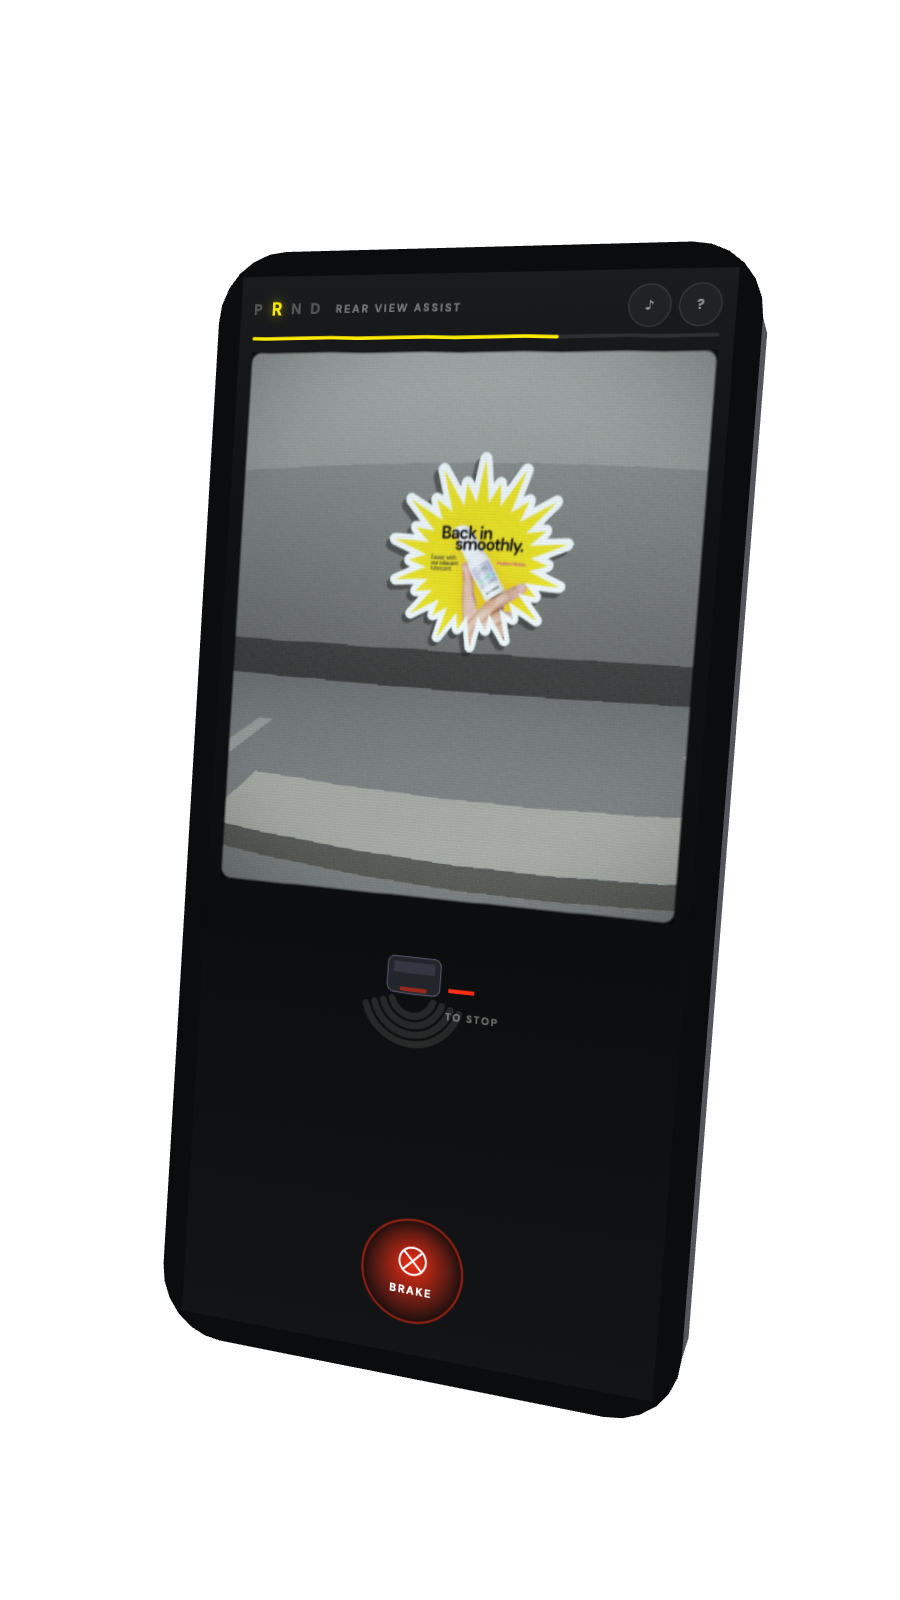
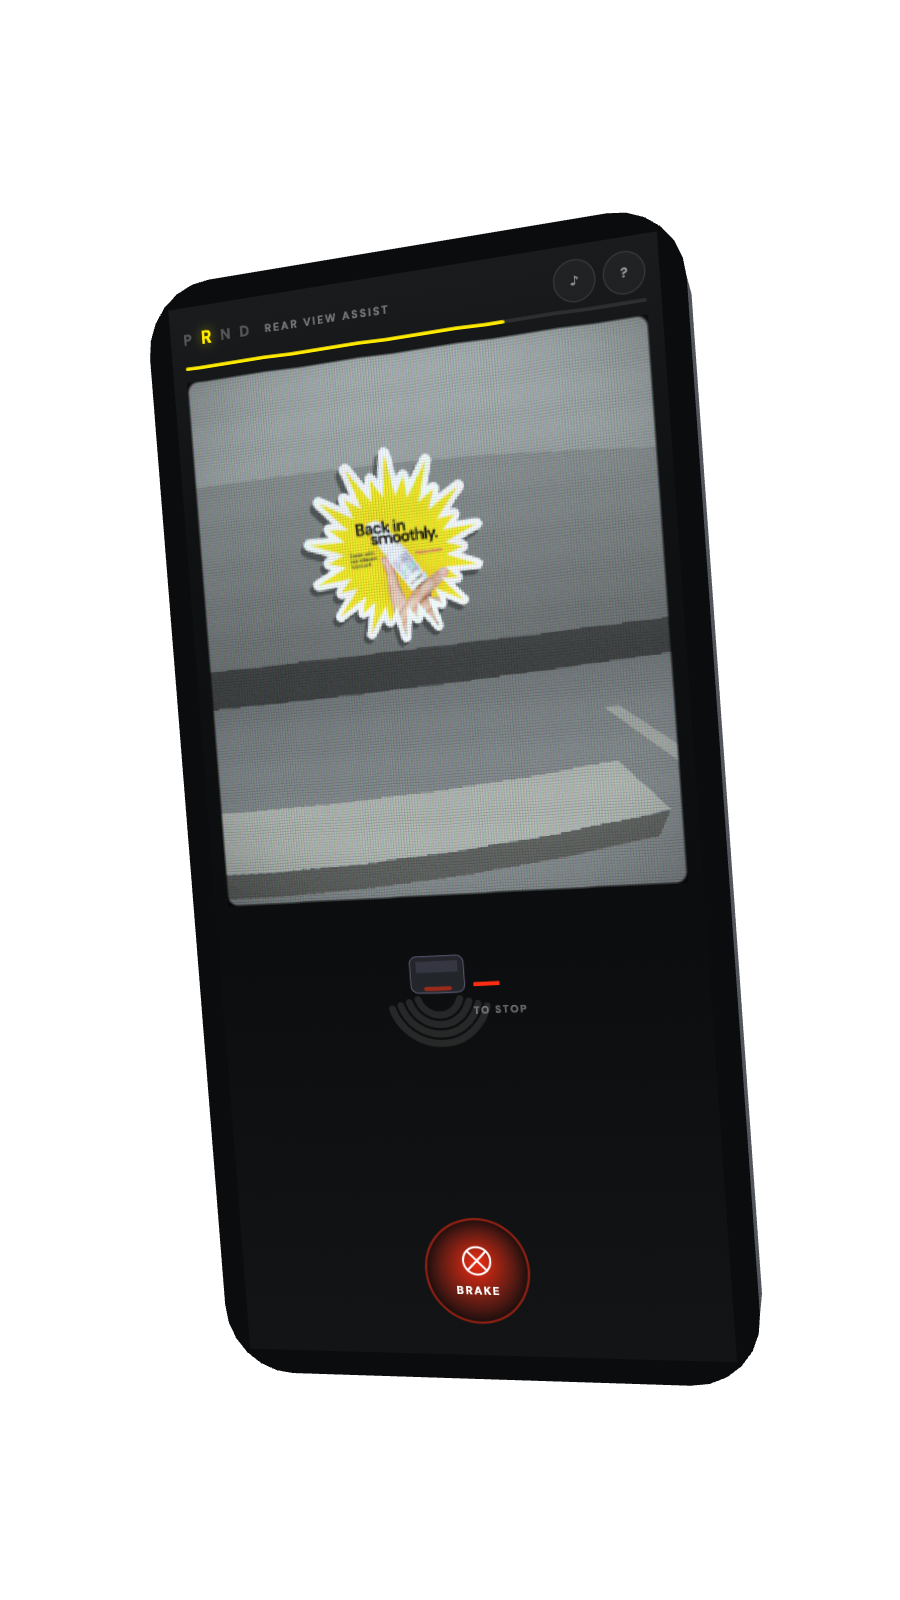
Make the feed obviously a screen
The mockups are photographs of a dashboard LCD, and what sells them is the panel
itself. The picture is now snapped to the display's own 336-pixel grid before
anything else touches it, so it is genuinely built out of pixels rather than
resampled smooth, and the matrix is drawn over the top: a dark lattice between
pixels at panel frequency, the red-green-blue stripe at device frequency. They
have to stay at separate frequencies — run both off the panel grid and they beat
into a wire mesh, which was the first attempt. The grille eases off during the
payoff so the poster still reads as artwork.

Changed region(s): [[0.1556, 0.125, 0.8711, 0.9062], [0.4044, 0.5938, 0.56, 0.6562], [0.28, 0.8438, 0.4044, 0.875]]

diff --git a/dist/embed.html b/dist/embed.html
@@ -2362,6 +2362,8 @@ window.PM_MODELS = {
     uniform float uAspect;
     uniform float uK1, uK2, uFit;
     uniform float uChroma, uScan, uGrain, uVig, uBloom, uGain, uSat;
+    uniform vec2  uPanel;     // the display's own pixel grid
+    uniform float uGrille;    // how hard the RGB matrix shows through
     uniform float uLines;
     uniform float uReduce;
     uniform vec4  uFlash;     // rgb + amount
@@ -2388,7 +2390,14 @@ window.PM_MODELS = {
       }
 
       vec2 luv = (vUv - uRMin) / (uRMax - uRMin);
-      vec2 p = (luv - 0.5) * vec2(uAspect, 1.0);
+
+      /* This is a cheap LCD in a dashboard, not a framebuffer. Snap the sample
+         to the panel's own pixel centres so the picture is genuinely built out
+         of pixels, then draw the matrix over the top. */
+      vec2 cell = luv * uPanel;
+      vec2 snapped = (floor(cell) + 0.5) / uPanel;
+
+      vec2 p = (snapped - 0.5) * vec2(uAspect, 1.0);
       float r2 = dot(p, p);
 
       // --- lens + lateral chromatic aberration --------------------------
@@ -2425,16 +2434,27 @@ window.PM_MODELS = {
       col *= vec3(0.96, 1.0, 1.02);
       col = col * uGain + 0.028;
 
-      // --- the LCD ------------------------------------------------------
-      float scan = sin(luv.y * uLines * 3.14159265);
-      col *= mix(1.0, 0.86 + 0.14 * scan * scan, uScan);
-      // RGB stripe of the panel, seen through a phone camera
-      float col3 = mod(gl_FragCoord.x, 3.0);
-      vec3 stripe = vec3(
-        col3 < 1.0 ? 1.0 : 0.94,
-        (col3 >= 1.0 && col3 < 2.0) ? 1.0 : 0.94,
-        col3 >= 2.0 ? 1.0 : 0.94);
-      col *= mix(vec3(1.0), stripe, uScan * 0.75);
+      /* --- the panel itself ---------------------------------------------
+         Three things make a screen look like a screen when you photograph one:
+         the gaps between pixels, the red-green-blue stripe inside each one,
+         and the fact that both are slightly out of step with the camera's own
+         grid, which is where the moire comes from. */
+      /* Two different frequencies, and they have to stay separate or they
+         beat against each other into a mesh: the lattice belongs to the panel,
+         the red-green-blue stripe to the camera looking at it. */
+      vec2 f = fract(cell);
+      float gx = smoothstep(0.0, 0.30, f.x) * smoothstep(1.0, 0.70, f.x);
+      float gy = smoothstep(0.0, 0.26, f.y) * smoothstep(1.0, 0.74, f.y);
+      float door = mix(1.0, 0.52 + 0.48 * (0.35 + 0.65 * gx) * gy, uGrille);
+      float sub = mod(gl_FragCoord.x, 3.0);
+      vec3 stripe = vec3(sub < 1.0 ? 1.0 : 0.72,
+                         (sub >= 1.0 && sub < 2.0) ? 1.0 : 0.72,
+                         sub >= 2.0 ? 1.0 : 0.72);
+      vec3 matrix = mix(vec3(1.0), stripe, uGrille) * door;
+      float scan = sin(cell.y * 3.14159265);
+      matrix *= mix(1.0, 0.92 + 0.08 * scan * scan, uScan);
+      col *= matrix;
+      col *= 1.0 + uGrille * 0.42;     // give back what the lattice took
       // slow rolling refresh bar
       col *= 1.0 + (1.0 - uReduce) * 0.016 * sin(luv.y * 5.0 - uTime * 0.9);
 
@@ -2479,6 +2499,9 @@ window.PM_MODELS = {
     gl.uniform1f(U.uGain, prm.gain === undefined ? 1 : prm.gain);
     gl.uniform1f(U.uSat, prm.sat === undefined ? 0.78 : prm.sat);
     gl.uniform1f(U.uLines, prm.lines || 300);
+    const pw = prm.panel || 320;
+    gl.uniform2f(U.uPanel, pw, Math.round(pw / aspect));
+    gl.uniform1f(U.uGrille, prm.grille === undefined ? 0.55 : prm.grille);
     gl.uniform1f(U.uReduce, prm.reduce ? 1 : 0);
     const f = prm.flash || [0, 0, 0, 0];
     gl.uniform4f(U.uFlash, f[0], f[1], f[2], f[3]);
@@ -2637,6 +2660,8 @@ window.PM_MODELS = {
     bloom: 0.22,
     gain: 1.03,
     sat: 0.78,
+    panel: 336,      // the display's horizontal pixel count
+    grille: 0.42,
     lines: 240,
   };
 
@@ -4246,6 +4271,8 @@ window.PM_MODELS = {
         bloom: L.bloom * (1 - ease * 0.85),
         gain: lerp(L.gain, 1.0, ease),
         sat: lerp(L.sat, 0.99, ease),
+        panel: L.panel,
+        grille: L.grille * (1 - ease * 0.45),
         lines: Math.round(this.cam.h / 3),
         reduce: this.reduce,
         flash: this.flash,
@@ -4678,6 +4705,8 @@ window.PM_MODELS = {
         bloom: LK.bloom * (1 - ease * 0.85),
         gain: lerp(LK.gain, 1, ease),
         sat: lerp(LK.sat, 0.99, ease),
+        panel: LK.panel,
+        grille: LK.grille * (1 - ease * 0.45),
         lines: Math.round(this.feedCv.height / 3),
         reduce: false,
         flash: this.flash,

diff --git a/index.html b/index.html
@@ -2369,6 +2369,8 @@ window.PM_MODELS = {
     uniform float uAspect;
     uniform float uK1, uK2, uFit;
     uniform float uChroma, uScan, uGrain, uVig, uBloom, uGain, uSat;
+    uniform vec2  uPanel;     // the display's own pixel grid
+    uniform float uGrille;    // how hard the RGB matrix shows through
     uniform float uLines;
     uniform float uReduce;
     uniform vec4  uFlash;     // rgb + amount
@@ -2395,7 +2397,14 @@ window.PM_MODELS = {
       }
 
       vec2 luv = (vUv - uRMin) / (uRMax - uRMin);
-      vec2 p = (luv - 0.5) * vec2(uAspect, 1.0);
+
+      /* This is a cheap LCD in a dashboard, not a framebuffer. Snap the sample
+         to the panel's own pixel centres so the picture is genuinely built out
+         of pixels, then draw the matrix over the top. */
+      vec2 cell = luv * uPanel;
+      vec2 snapped = (floor(cell) + 0.5) / uPanel;
+
+      vec2 p = (snapped - 0.5) * vec2(uAspect, 1.0);
       float r2 = dot(p, p);
 
       // --- lens + lateral chromatic aberration --------------------------
@@ -2432,16 +2441,27 @@ window.PM_MODELS = {
       col *= vec3(0.96, 1.0, 1.02);
       col = col * uGain + 0.028;
 
-      // --- the LCD ------------------------------------------------------
-      float scan = sin(luv.y * uLines * 3.14159265);
-      col *= mix(1.0, 0.86 + 0.14 * scan * scan, uScan);
-      // RGB stripe of the panel, seen through a phone camera
-      float col3 = mod(gl_FragCoord.x, 3.0);
-      vec3 stripe = vec3(
-        col3 < 1.0 ? 1.0 : 0.94,
-        (col3 >= 1.0 && col3 < 2.0) ? 1.0 : 0.94,
-        col3 >= 2.0 ? 1.0 : 0.94);
-      col *= mix(vec3(1.0), stripe, uScan * 0.75);
+      /* --- the panel itself ---------------------------------------------
+         Three things make a screen look like a screen when you photograph one:
+         the gaps between pixels, the red-green-blue stripe inside each one,
+         and the fact that both are slightly out of step with the camera's own
+         grid, which is where the moire comes from. */
+      /* Two different frequencies, and they have to stay separate or they
+         beat against each other into a mesh: the lattice belongs to the panel,
+         the red-green-blue stripe to the camera looking at it. */
+      vec2 f = fract(cell);
+      float gx = smoothstep(0.0, 0.30, f.x) * smoothstep(1.0, 0.70, f.x);
+      float gy = smoothstep(0.0, 0.26, f.y) * smoothstep(1.0, 0.74, f.y);
+      float door = mix(1.0, 0.52 + 0.48 * (0.35 + 0.65 * gx) * gy, uGrille);
+      float sub = mod(gl_FragCoord.x, 3.0);
+      vec3 stripe = vec3(sub < 1.0 ? 1.0 : 0.72,
+                         (sub >= 1.0 && sub < 2.0) ? 1.0 : 0.72,
+                         sub >= 2.0 ? 1.0 : 0.72);
+      vec3 matrix = mix(vec3(1.0), stripe, uGrille) * door;
+      float scan = sin(cell.y * 3.14159265);
+      matrix *= mix(1.0, 0.92 + 0.08 * scan * scan, uScan);
+      col *= matrix;
+      col *= 1.0 + uGrille * 0.42;     // give back what the lattice took
       // slow rolling refresh bar
       col *= 1.0 + (1.0 - uReduce) * 0.016 * sin(luv.y * 5.0 - uTime * 0.9);
 
@@ -2486,6 +2506,9 @@ window.PM_MODELS = {
     gl.uniform1f(U.uGain, prm.gain === undefined ? 1 : prm.gain);
     gl.uniform1f(U.uSat, prm.sat === undefined ? 0.78 : prm.sat);
     gl.uniform1f(U.uLines, prm.lines || 300);
+    const pw = prm.panel || 320;
+    gl.uniform2f(U.uPanel, pw, Math.round(pw / aspect));
+    gl.uniform1f(U.uGrille, prm.grille === undefined ? 0.55 : prm.grille);
     gl.uniform1f(U.uReduce, prm.reduce ? 1 : 0);
     const f = prm.flash || [0, 0, 0, 0];
     gl.uniform4f(U.uFlash, f[0], f[1], f[2], f[3]);
@@ -2644,6 +2667,8 @@ window.PM_MODELS = {
     bloom: 0.22,
     gain: 1.03,
     sat: 0.78,
+    panel: 336,      // the display's horizontal pixel count
+    grille: 0.42,
     lines: 240,
   };
 
@@ -4253,6 +4278,8 @@ window.PM_MODELS = {
         bloom: L.bloom * (1 - ease * 0.85),
         gain: lerp(L.gain, 1.0, ease),
         sat: lerp(L.sat, 0.99, ease),
+        panel: L.panel,
+        grille: L.grille * (1 - ease * 0.45),
         lines: Math.round(this.cam.h / 3),
         reduce: this.reduce,
         flash: this.flash,
@@ -4685,6 +4712,8 @@ window.PM_MODELS = {
         bloom: LK.bloom * (1 - ease * 0.85),
         gain: lerp(LK.gain, 1, ease),
         sat: lerp(LK.sat, 0.99, ease),
+        panel: LK.panel,
+        grille: LK.grille * (1 - ease * 0.45),
         lines: Math.round(this.feedCv.height / 3),
         reduce: false,
         flash: this.flash,

diff --git a/src/post.js b/src/post.js
@@ -25,6 +25,8 @@
     uniform float uAspect;
     uniform float uK1, uK2, uFit;
     uniform float uChroma, uScan, uGrain, uVig, uBloom, uGain, uSat;
+    uniform vec2  uPanel;     // the display's own pixel grid
+    uniform float uGrille;    // how hard the RGB matrix shows through
     uniform float uLines;
     uniform float uReduce;
     uniform vec4  uFlash;     // rgb + amount
@@ -51,7 +53,14 @@
       }
 
       vec2 luv = (vUv - uRMin) / (uRMax - uRMin);
-      vec2 p = (luv - 0.5) * vec2(uAspect, 1.0);
+
+      /* This is a cheap LCD in a dashboard, not a framebuffer. Snap the sample
+         to the panel's own pixel centres so the picture is genuinely built out
+         of pixels, then draw the matrix over the top. */
+      vec2 cell = luv * uPanel;
+      vec2 snapped = (floor(cell) + 0.5) / uPanel;
+
+      vec2 p = (snapped - 0.5) * vec2(uAspect, 1.0);
       float r2 = dot(p, p);
 
       // --- lens + lateral chromatic aberration --------------------------
@@ -88,16 +97,27 @@
       col *= vec3(0.96, 1.0, 1.02);
       col = col * uGain + 0.028;
 
-      // --- the LCD ------------------------------------------------------
-      float scan = sin(luv.y * uLines * 3.14159265);
-      col *= mix(1.0, 0.86 + 0.14 * scan * scan, uScan);
-      // RGB stripe of the panel, seen through a phone camera
-      float col3 = mod(gl_FragCoord.x, 3.0);
-      vec3 stripe = vec3(
-        col3 < 1.0 ? 1.0 : 0.94,
-        (col3 >= 1.0 && col3 < 2.0) ? 1.0 : 0.94,
-        col3 >= 2.0 ? 1.0 : 0.94);
-      col *= mix(vec3(1.0), stripe, uScan * 0.75);
+      /* --- the panel itself ---------------------------------------------
+         Three things make a screen look like a screen when you photograph one:
+         the gaps between pixels, the red-green-blue stripe inside each one,
+         and the fact that both are slightly out of step with the camera's own
+         grid, which is where the moire comes from. */
+      /* Two different frequencies, and they have to stay separate or they
+         beat against each other into a mesh: the lattice belongs to the panel,
+         the red-green-blue stripe to the camera looking at it. */
+      vec2 f = fract(cell);
+      float gx = smoothstep(0.0, 0.30, f.x) * smoothstep(1.0, 0.70, f.x);
+      float gy = smoothstep(0.0, 0.26, f.y) * smoothstep(1.0, 0.74, f.y);
+      float door = mix(1.0, 0.52 + 0.48 * (0.35 + 0.65 * gx) * gy, uGrille);
+      float sub = mod(gl_FragCoord.x, 3.0);
+      vec3 stripe = vec3(sub < 1.0 ? 1.0 : 0.72,
+                         (sub >= 1.0 && sub < 2.0) ? 1.0 : 0.72,
+                         sub >= 2.0 ? 1.0 : 0.72);
+      vec3 matrix = mix(vec3(1.0), stripe, uGrille) * door;
+      float scan = sin(cell.y * 3.14159265);
+      matrix *= mix(1.0, 0.92 + 0.08 * scan * scan, uScan);
+      col *= matrix;
+      col *= 1.0 + uGrille * 0.42;     // give back what the lattice took
       // slow rolling refresh bar
       col *= 1.0 + (1.0 - uReduce) * 0.016 * sin(luv.y * 5.0 - uTime * 0.9);
 
@@ -142,6 +162,9 @@
     gl.uniform1f(U.uGain, prm.gain === undefined ? 1 : prm.gain);
     gl.uniform1f(U.uSat, prm.sat === undefined ? 0.78 : prm.sat);
     gl.uniform1f(U.uLines, prm.lines || 300);
+    const pw = prm.panel || 320;
+    gl.uniform2f(U.uPanel, pw, Math.round(pw / aspect));
+    gl.uniform1f(U.uGrille, prm.grille === undefined ? 0.55 : prm.grille);
     gl.uniform1f(U.uReduce, prm.reduce ? 1 : 0);
     const f = prm.flash || [0, 0, 0, 0];
     gl.uniform4f(U.uFlash, f[0], f[1], f[2], f[3]);
@@ -300,6 +323,8 @@
     bloom: 0.22,
     gain: 1.03,
     sat: 0.78,
+    panel: 336,      // the display's horizontal pixel count
+    grille: 0.42,
     lines: 240,
   };
 

diff --git a/src/studio.js b/src/studio.js
@@ -404,6 +404,8 @@
         bloom: LK.bloom * (1 - ease * 0.85),
         gain: lerp(LK.gain, 1, ease),
         sat: lerp(LK.sat, 0.99, ease),
+        panel: LK.panel,
+        grille: LK.grille * (1 - ease * 0.45),
         lines: Math.round(this.feedCv.height / 3),
         reduce: false,
         flash: this.flash,

diff --git a/src/game.js b/src/game.js
@@ -461,6 +461,8 @@
         bloom: L.bloom * (1 - ease * 0.85),
         gain: lerp(L.gain, 1.0, ease),
         sat: lerp(L.sat, 0.99, ease),
+        panel: L.panel,
+        grille: L.grille * (1 - ease * 0.45),
         lines: Math.round(this.cam.h / 3),
         reduce: this.reduce,
         flash: this.flash,

diff --git a/README.md b/README.md
@@ -47,10 +47,14 @@ Everything on screen is either a reversing camera, a car park, or PlatanoMelón.
 - **The guide lines are calibrated, not decorative.** They are drawn on the ground
   plane from the car's actual steering angle, so they bend as you tilt and stop
   where the wall is. Red bar at half a metre, yellow to 1.75 m, green beyond.
-- **The lens is applied last.** The scene is rendered flat and cheap (760 px wide,
-  flat grey, auto-gain), then a WebGL pass adds the barrel distortion, chromatic
-  fringing, scan lines, the LCD's RGB stripe and the sensor grain — the moiré you
-  get photographing a dashboard, which is exactly what the mockups are.
+- **The lens is applied last, and so is the screen.** The scene renders flat and
+  cheap, then one pass adds the barrel distortion, chromatic fringing and sensor
+  grain — and then the display itself: the picture is snapped to a 336-pixel-wide
+  panel grid, with the dark lattice between pixels and the red-green-blue stripe
+  drawn at two deliberately different frequencies. Beating them together is what
+  makes a photographed screen look like a photographed screen, which is exactly
+  what the mockups are. The grille eases off on the payoff so the artwork lands
+  clean.
 - **Reverse chevrons** mark the target bay on the floor and reappear as the tilt
   indicator in the how-to diagram.
 - **The poster is framed by where you park, not by a camera trick.** That is the
